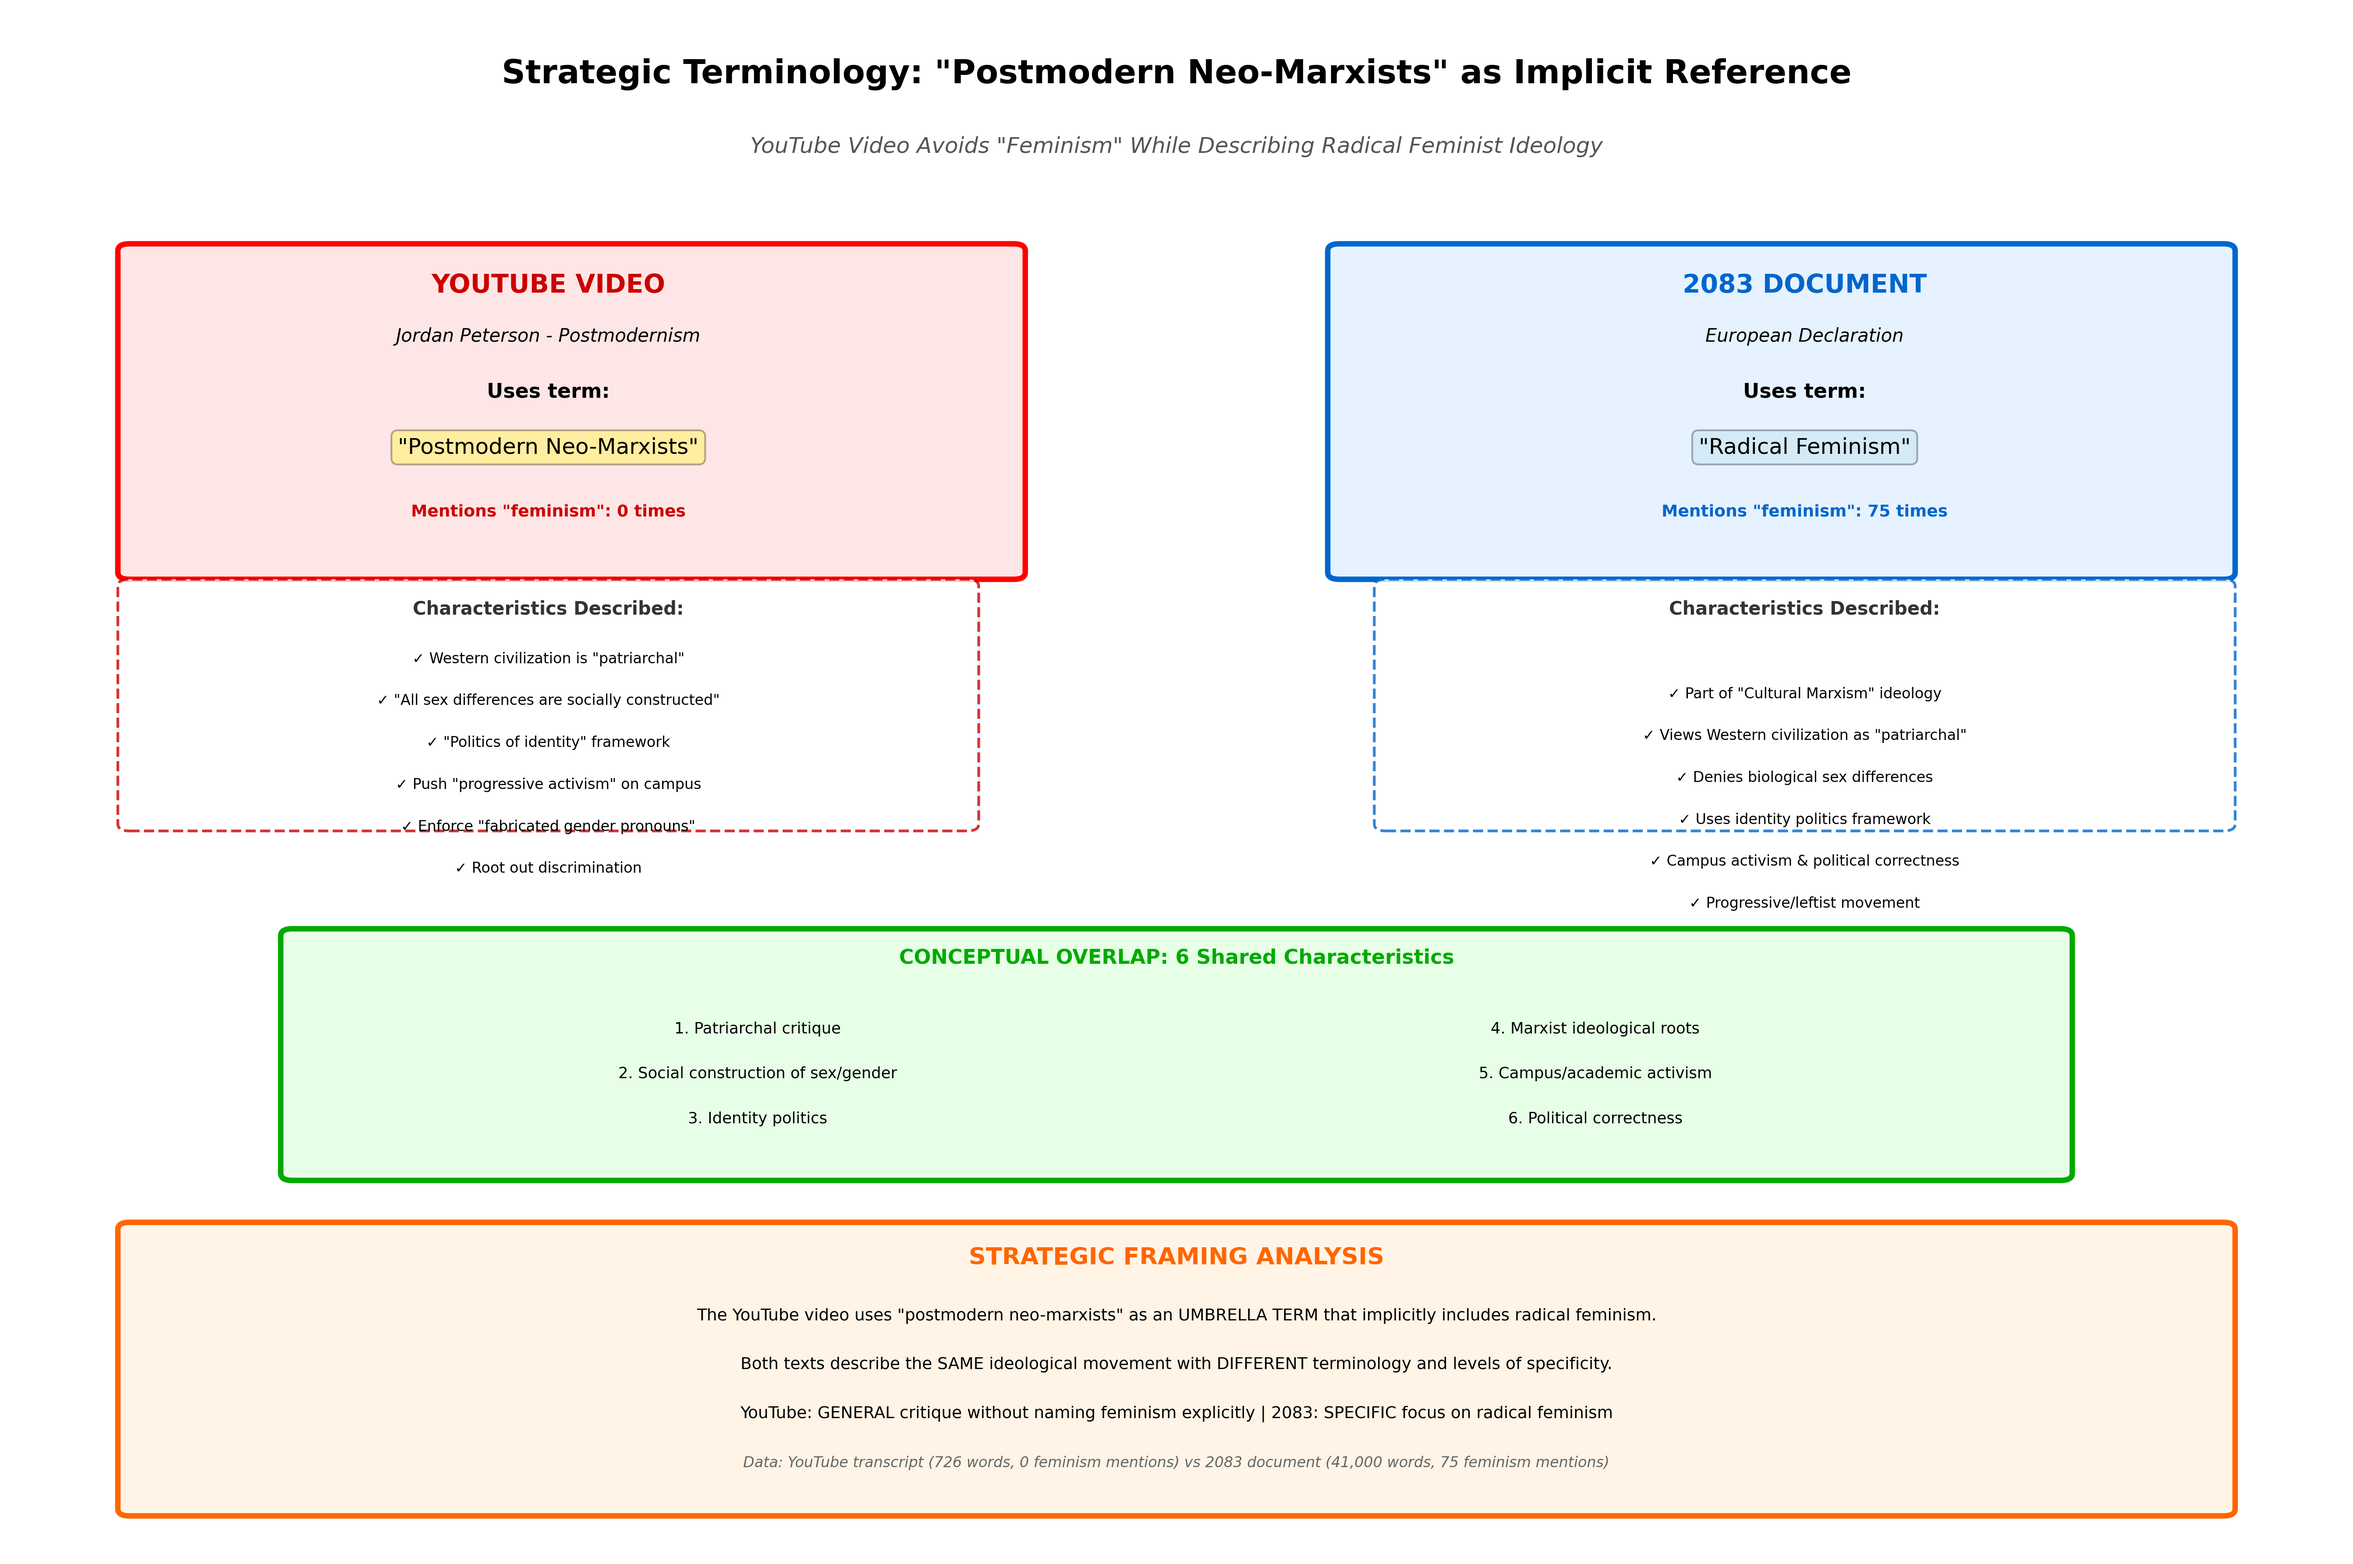
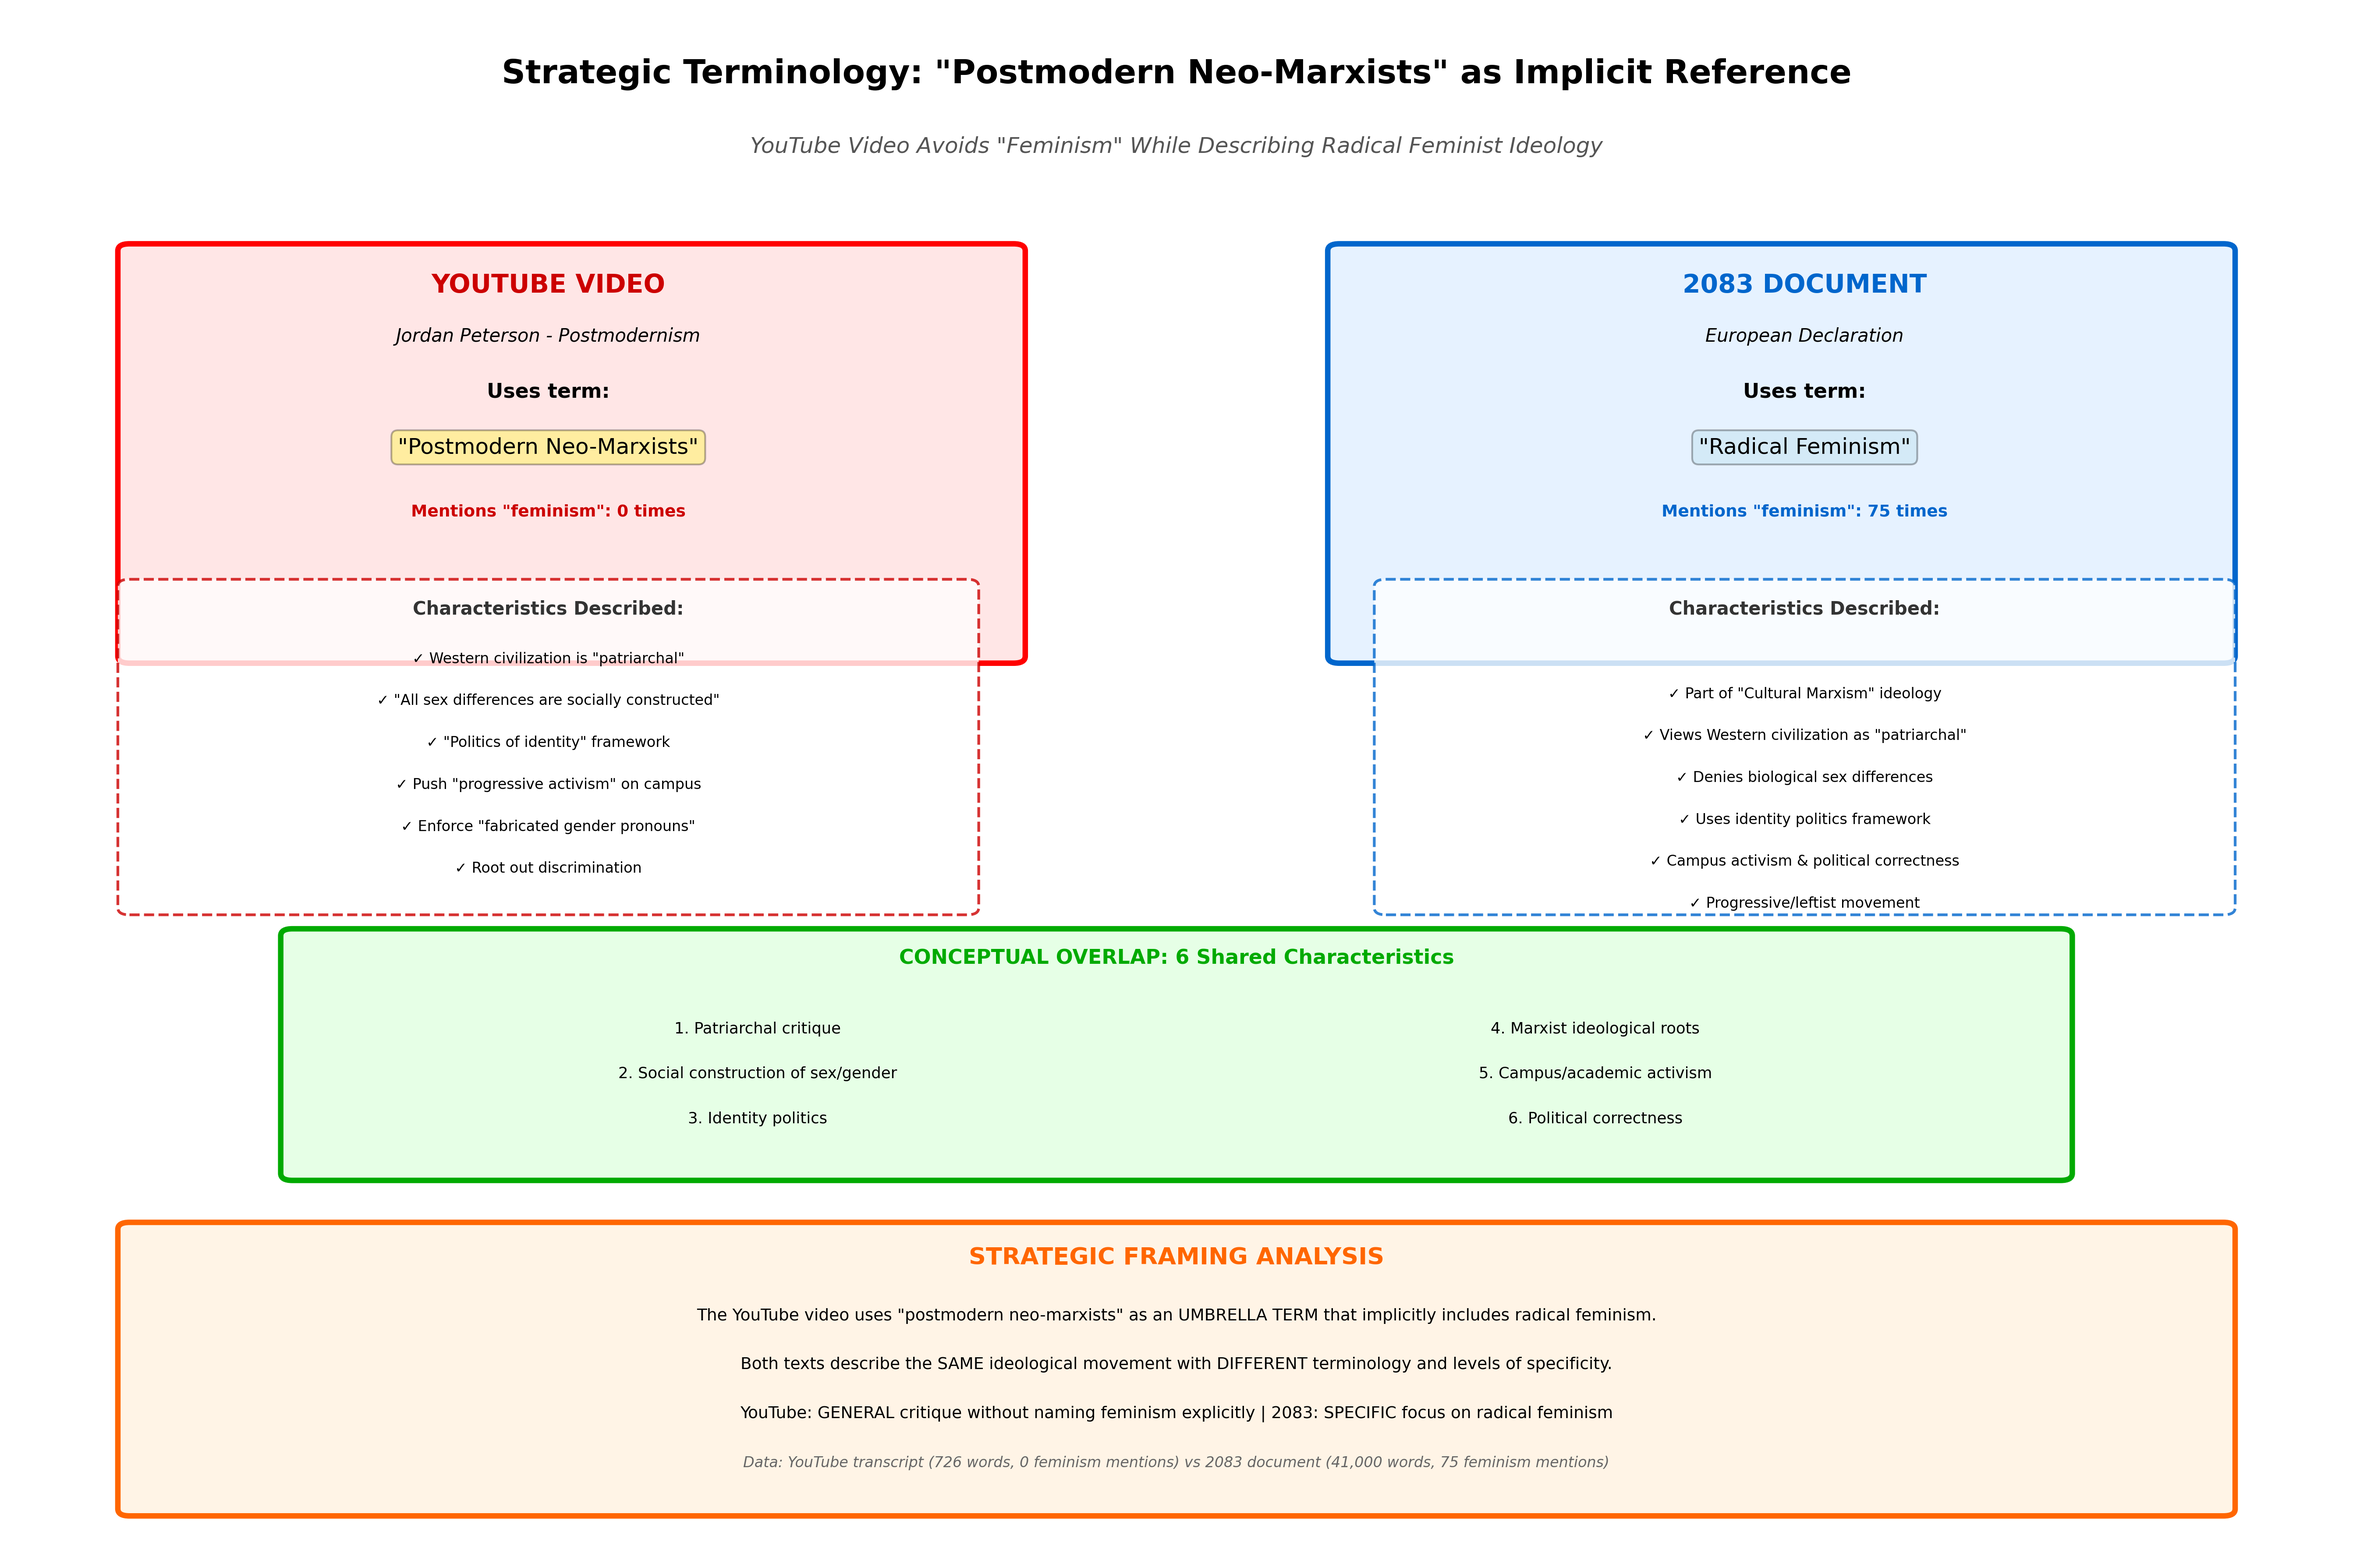
Extend boxes downward to touch green box - maintain top positions

Changed region(s): [[0.5598, 0.342, 0.9641, 0.4353], [0.2799, 0.342, 0.4354, 0.4353], [0.0622, 0.4042, 0.1866, 0.4353]]

diff --git a/visualize_implicit_feminism.py b/visualize_implicit_feminism.py
@@ -24,7 +24,7 @@ ax.text(5, 10.0, 'YouTube Video Avoids "Feminism" While Describing Radical Femin
 
 # LEFT SIDE: YouTube Video
 # Box for YouTube
-youtube_box = FancyBboxPatch((0.5, 7.0), 3.8, 2.3, 
+youtube_box = FancyBboxPatch((0.5, 6.4), 3.8, 2.9, 
                              boxstyle="round,pad=0.05", 
                              edgecolor='#FF0000', facecolor='#FFE6E6', 
                              linewidth=3)
@@ -40,7 +40,7 @@ ax.text(2.3, 7.4, 'Mentions "feminism": 0 times', ha='center', fontsize=9,
 
 # Characteristics of "postmodern neo-marxists" in YouTube
 # Add inner box for characteristics
-char_box_yt = FancyBboxPatch((0.5, 5.2), 3.6, 1.7,
+char_box_yt = FancyBboxPatch((0.5, 4.6), 3.6, 2.3,
                              boxstyle="round,pad=0.05",
                              edgecolor='#CC0000', facecolor='white',
                              linewidth=1.5, linestyle='--', alpha=0.8)
@@ -65,7 +65,7 @@ for char in characteristics_yt:
 
 # RIGHT SIDE: 2083 Document
 # Box for 2083
-doc_box = FancyBboxPatch((5.7, 7.0), 3.8, 2.3, 
+doc_box = FancyBboxPatch((5.7, 6.4), 3.8, 2.9, 
                          boxstyle="round,pad=0.05", 
                          edgecolor='#0066CC', facecolor='#E6F2FF', 
                          linewidth=3)
@@ -80,7 +80,7 @@ ax.text(7.7, 7.4, 'Mentions "feminism": 75 times', ha='center', fontsize=9,
         color='#0066CC', fontweight='bold')
 # Characteristics of "radical feminism" in 2083
 # Add inner box for characteristics
-char_box_doc = FancyBboxPatch((5.9, 5.2), 3.6, 1.7,
+char_box_doc = FancyBboxPatch((5.9, 4.6), 3.6, 2.3,
                               boxstyle="round,pad=0.05",
                               edgecolor='#0066CC', facecolor='white',
                               linewidth=1.5, linestyle='--', alpha=0.8)
